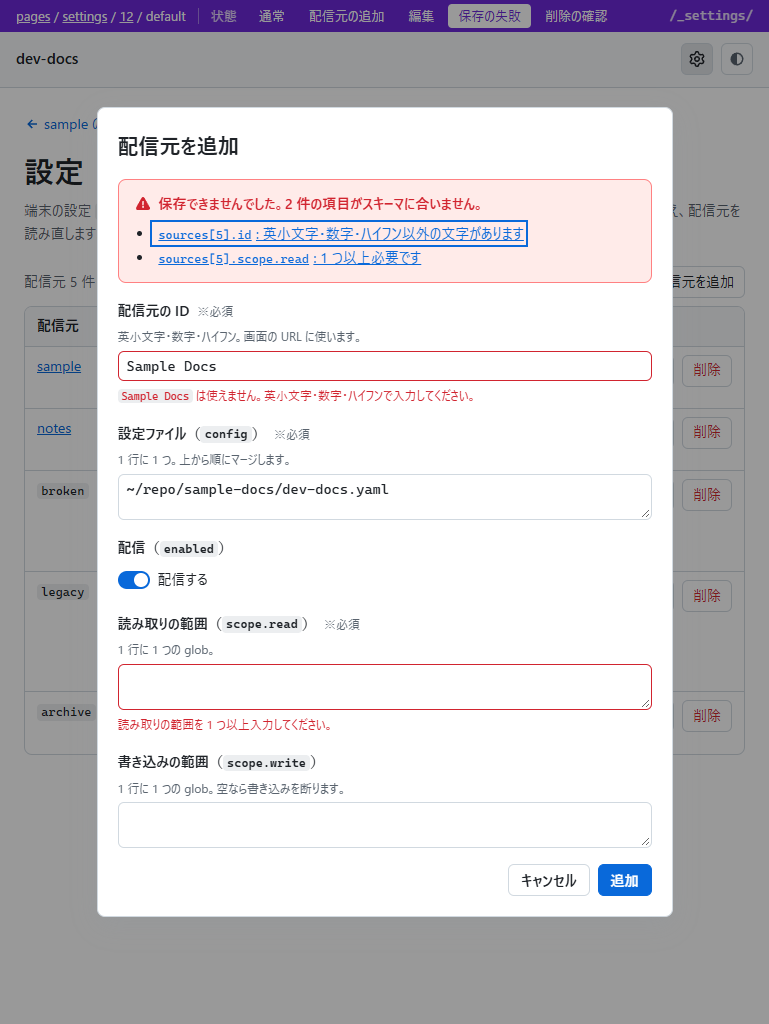
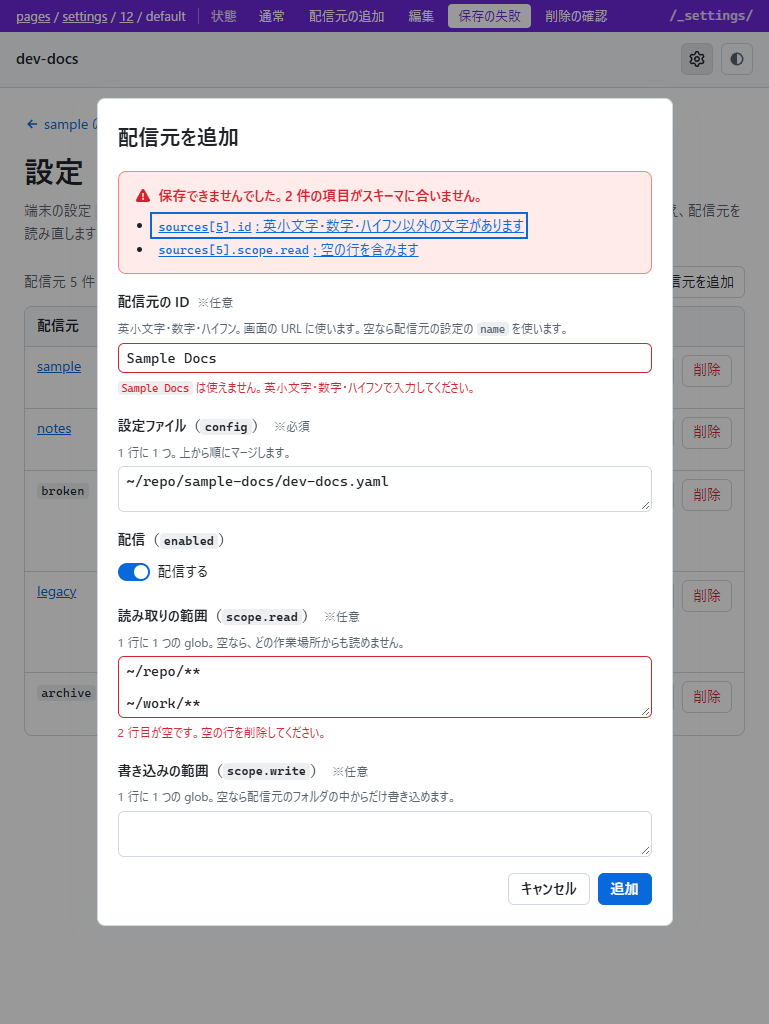
fix: 設定画面のモックの必須と既定を A-25 に合わせる
- 配信元の ID と scope.read を任意にし、空のときの扱いをヒントに記載する
- scope.write のヒントを、空なら配信元のフォルダの中からだけ書き込めるに修正する
- 保存の失敗の scope.read のエラーを、空の行を含むときのエラーにする

diff --git a/dev/mock/pages/settings/12/default/index.html b/dev/mock/pages/settings/12/default/index.html
@@ -121,9 +121,9 @@
     <form method="dialog" class="dialog__form">
       <h2 class="dialog__title" id="add-dialog-title">配信元を追加</h2>
         <div class="field">
-          <label class="field__label" for="add-id">配信元の ID<span class="field__required">※必須</span></label>
-          <p class="field__hint" id="add-id-hint">英小文字・数字・ハイフン。画面の URL に使います。</p>
-          <input class="field__input mono" id="add-id" type="text" pattern="[a-z0-9\-]+" aria-describedby="add-id-hint" autocomplete="off" spellcheck="false" required value="">
+          <label class="field__label" for="add-id">配信元の ID<span class="field__required">※任意</span></label>
+          <p class="field__hint" id="add-id-hint">英小文字・数字・ハイフン。画面の URL に使います。空なら配信元の設定の <code>name</code> を使います。</p>
+          <input class="field__input mono" id="add-id" type="text" pattern="[a-z0-9\-]+" aria-describedby="add-id-hint" autocomplete="off" spellcheck="false" value="">
         </div>
         <div class="field">
           <label class="field__label" for="add-config">設定ファイル（<code>config</code>）<span class="field__required">※必須</span></label>
@@ -135,13 +135,13 @@
           <label class="switch"><input type="checkbox" role="switch" id="add-enabled" checked> 配信する</label>
         </div>
         <div class="field">
-          <label class="field__label" for="add-read">読み取りの範囲（<code>scope.read</code>）<span class="field__required">※必須</span></label>
-          <p class="field__hint" id="add-read-hint">1 行に 1 つの glob。</p>
+          <label class="field__label" for="add-read">読み取りの範囲（<code>scope.read</code>）<span class="field__required">※任意</span></label>
+          <p class="field__hint" id="add-read-hint">1 行に 1 つの glob。空なら、どの作業場所からも読めません。</p>
           <textarea class="field__input mono" id="add-read" rows="2" spellcheck="false" aria-describedby="add-read-hint"></textarea>
         </div>
         <div class="field">
-          <label class="field__label" for="add-write">書き込みの範囲（<code>scope.write</code>）</label>
-          <p class="field__hint" id="add-write-hint">1 行に 1 つの glob。空なら書き込みを断ります。</p>
+          <label class="field__label" for="add-write">書き込みの範囲（<code>scope.write</code>）<span class="field__required">※任意</span></label>
+          <p class="field__hint" id="add-write-hint">1 行に 1 つの glob。空なら配信元のフォルダの中からだけ書き込めます。</p>
           <textarea class="field__input mono" id="add-write" rows="2" spellcheck="false" aria-describedby="add-write-hint"></textarea>
         </div>
       <div class="dialog__actions">
@@ -169,13 +169,13 @@
           <label class="switch"><input type="checkbox" role="switch" id="edit-enabled" checked> 配信する</label>
         </div>
         <div class="field">
-          <label class="field__label" for="edit-read">読み取りの範囲（<code>scope.read</code>）<span class="field__required">※必須</span></label>
-          <p class="field__hint" id="edit-read-hint">1 行に 1 つの glob。</p>
+          <label class="field__label" for="edit-read">読み取りの範囲（<code>scope.read</code>）<span class="field__required">※任意</span></label>
+          <p class="field__hint" id="edit-read-hint">1 行に 1 つの glob。空なら、どの作業場所からも読めません。</p>
           <textarea class="field__input mono" id="edit-read" rows="2" spellcheck="false" aria-describedby="edit-read-hint">~/repo/**</textarea>
         </div>
         <div class="field">
-          <label class="field__label" for="edit-write">書き込みの範囲（<code>scope.write</code>）</label>
-          <p class="field__hint" id="edit-write-hint">1 行に 1 つの glob。空なら書き込みを断ります。</p>
+          <label class="field__label" for="edit-write">書き込みの範囲（<code>scope.write</code>）<span class="field__required">※任意</span></label>
+          <p class="field__hint" id="edit-write-hint">1 行に 1 つの glob。空なら配信元のフォルダの中からだけ書き込めます。</p>
           <textarea class="field__input mono" id="edit-write" rows="2" spellcheck="false" aria-describedby="edit-write-hint">~/repo/sample/**</textarea>
         </div>
       <div class="dialog__actions">
@@ -193,13 +193,13 @@
           <p class="error-summary__title"><svg aria-hidden="true" viewBox="0 0 16 16" width="16" height="16"><path d="M6.46 1.95a1.75 1.75 0 0 1 3.08 0l5.25 9.5A1.75 1.75 0 0 1 13.25 14H2.75a1.75 1.75 0 0 1-1.54-2.55zM8 5a.75.75 0 0 0-.75.75v3a.75.75 0 0 0 1.5 0v-3A.75.75 0 0 0 8 5m0 7a1 1 0 1 0 0-2 1 1 0 0 0 0 2"/></svg>保存できませんでした。2 件の項目がスキーマに合いません。</p>
           <ul>
             <li><a href="#invalid-id"><code>sources[5].id</code>: 英小文字・数字・ハイフン以外の文字があります</a></li>
-            <li><a href="#invalid-read"><code>sources[5].scope.read</code>: 1 つ以上必要です</a></li>
+            <li><a href="#invalid-read"><code>sources[5].scope.read</code>: 空の行を含みます</a></li>
           </ul>
         </div>
         <div class="field is-invalid">
-          <label class="field__label" for="invalid-id">配信元の ID<span class="field__required">※必須</span></label>
-          <p class="field__hint" id="invalid-id-hint">英小文字・数字・ハイフン。画面の URL に使います。</p>
-          <input class="field__input mono" id="invalid-id" type="text" pattern="[a-z0-9\-]+" aria-describedby="invalid-id-hint invalid-id-error" autocomplete="off" spellcheck="false" required value="Sample Docs" aria-invalid="true">
+          <label class="field__label" for="invalid-id">配信元の ID<span class="field__required">※任意</span></label>
+          <p class="field__hint" id="invalid-id-hint">英小文字・数字・ハイフン。画面の URL に使います。空なら配信元の設定の <code>name</code> を使います。</p>
+          <input class="field__input mono" id="invalid-id" type="text" pattern="[a-z0-9\-]+" aria-describedby="invalid-id-hint invalid-id-error" autocomplete="off" spellcheck="false" value="Sample Docs" aria-invalid="true">
           <p class="field__error" id="invalid-id-error"><code>Sample Docs</code> は使えません。英小文字・数字・ハイフンで入力してください。</p>
         </div>
         <div class="field">
@@ -212,14 +212,16 @@
           <label class="switch"><input type="checkbox" role="switch" id="invalid-enabled" checked> 配信する</label>
         </div>
         <div class="field is-invalid">
-          <label class="field__label" for="invalid-read">読み取りの範囲（<code>scope.read</code>）<span class="field__required">※必須</span></label>
-          <p class="field__hint" id="invalid-read-hint">1 行に 1 つの glob。</p>
-          <textarea class="field__input mono" id="invalid-read" rows="2" spellcheck="false" aria-describedby="invalid-read-hint invalid-read-error" aria-invalid="true"></textarea>
-          <p class="field__error" id="invalid-read-error">読み取りの範囲を 1 つ以上入力してください。</p>
+          <label class="field__label" for="invalid-read">読み取りの範囲（<code>scope.read</code>）<span class="field__required">※任意</span></label>
+          <p class="field__hint" id="invalid-read-hint">1 行に 1 つの glob。空なら、どの作業場所からも読めません。</p>
+          <textarea class="field__input mono" id="invalid-read" rows="3" spellcheck="false" aria-describedby="invalid-read-hint invalid-read-error" aria-invalid="true">~/repo/**
+
+~/work/**</textarea>
+          <p class="field__error" id="invalid-read-error">2 行目が空です。空の行を削除してください。</p>
         </div>
         <div class="field">
-          <label class="field__label" for="invalid-write">書き込みの範囲（<code>scope.write</code>）</label>
-          <p class="field__hint" id="invalid-write-hint">1 行に 1 つの glob。空なら書き込みを断ります。</p>
+          <label class="field__label" for="invalid-write">書き込みの範囲（<code>scope.write</code>）<span class="field__required">※任意</span></label>
+          <p class="field__hint" id="invalid-write-hint">1 行に 1 つの glob。空なら配信元のフォルダの中からだけ書き込めます。</p>
           <textarea class="field__input mono" id="invalid-write" rows="2" spellcheck="false" aria-describedby="invalid-write-hint"></textarea>
         </div>
       <div class="dialog__actions">
